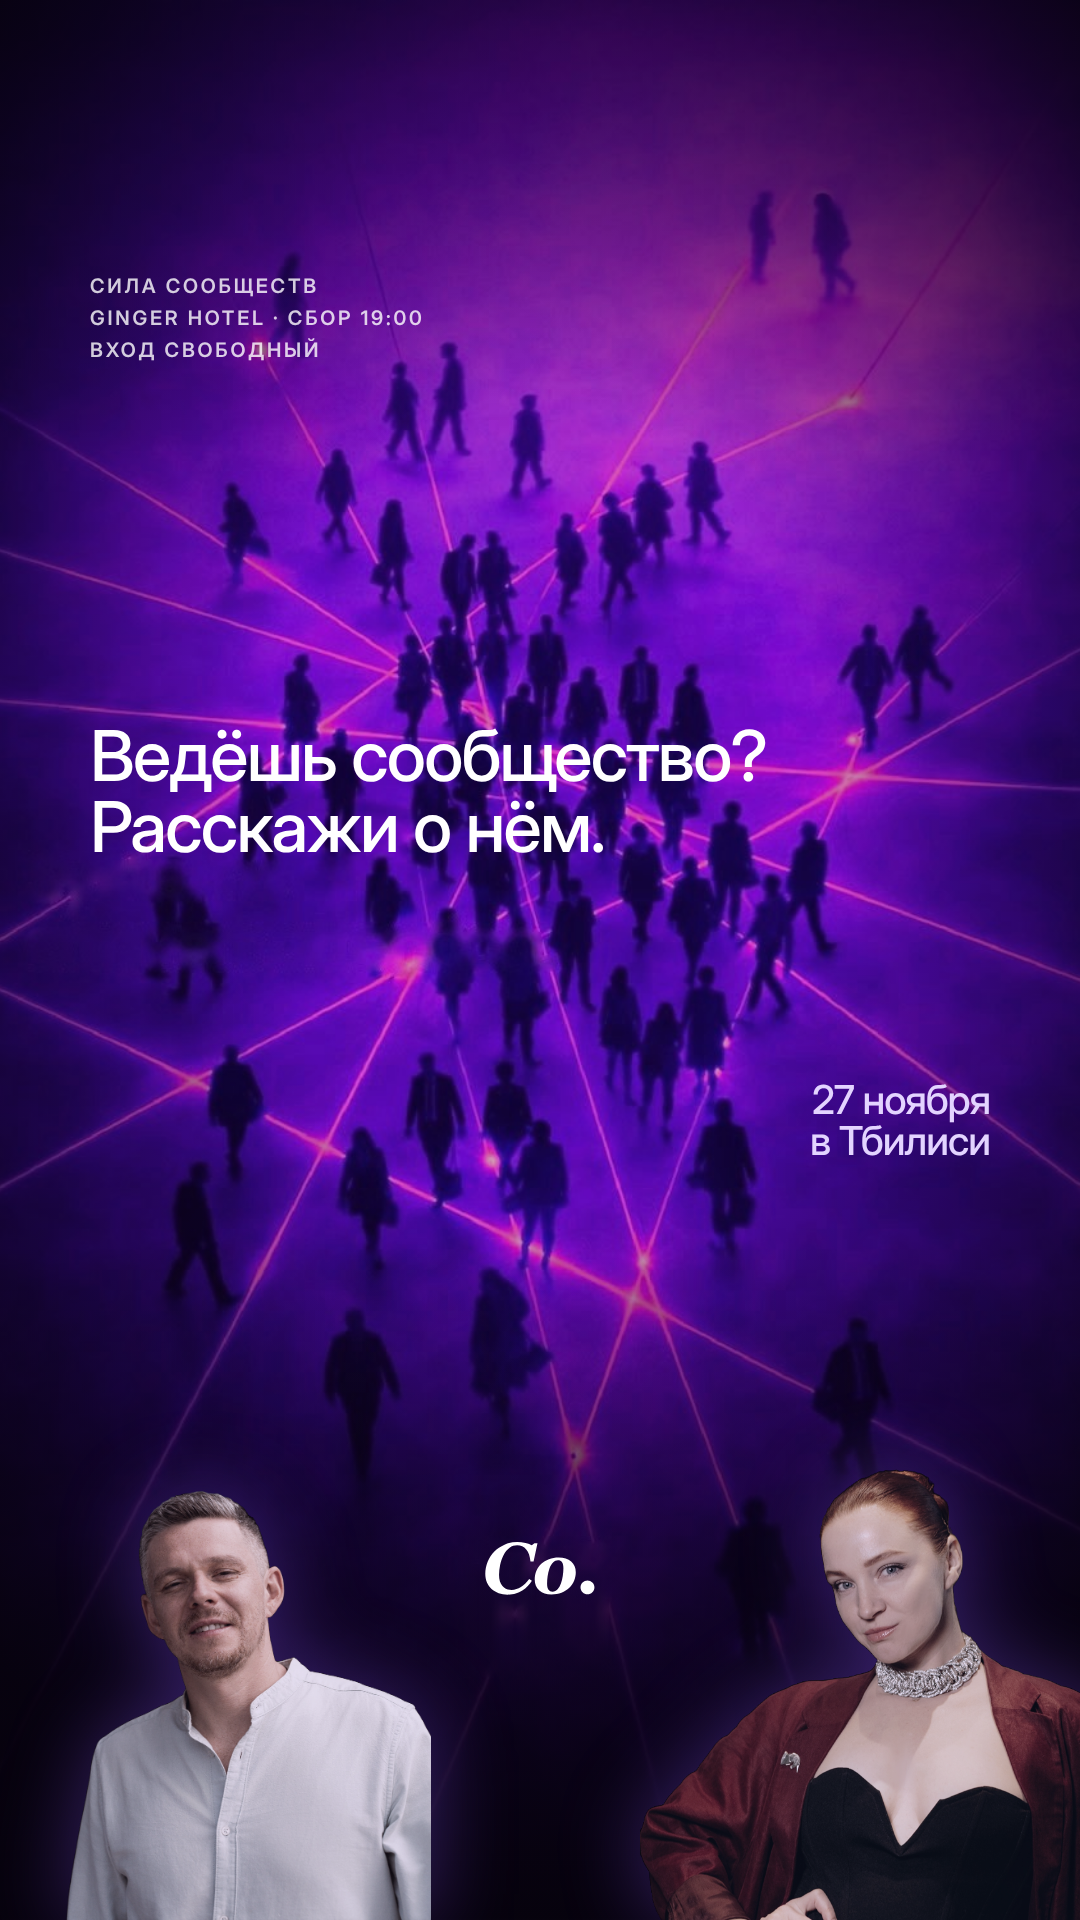
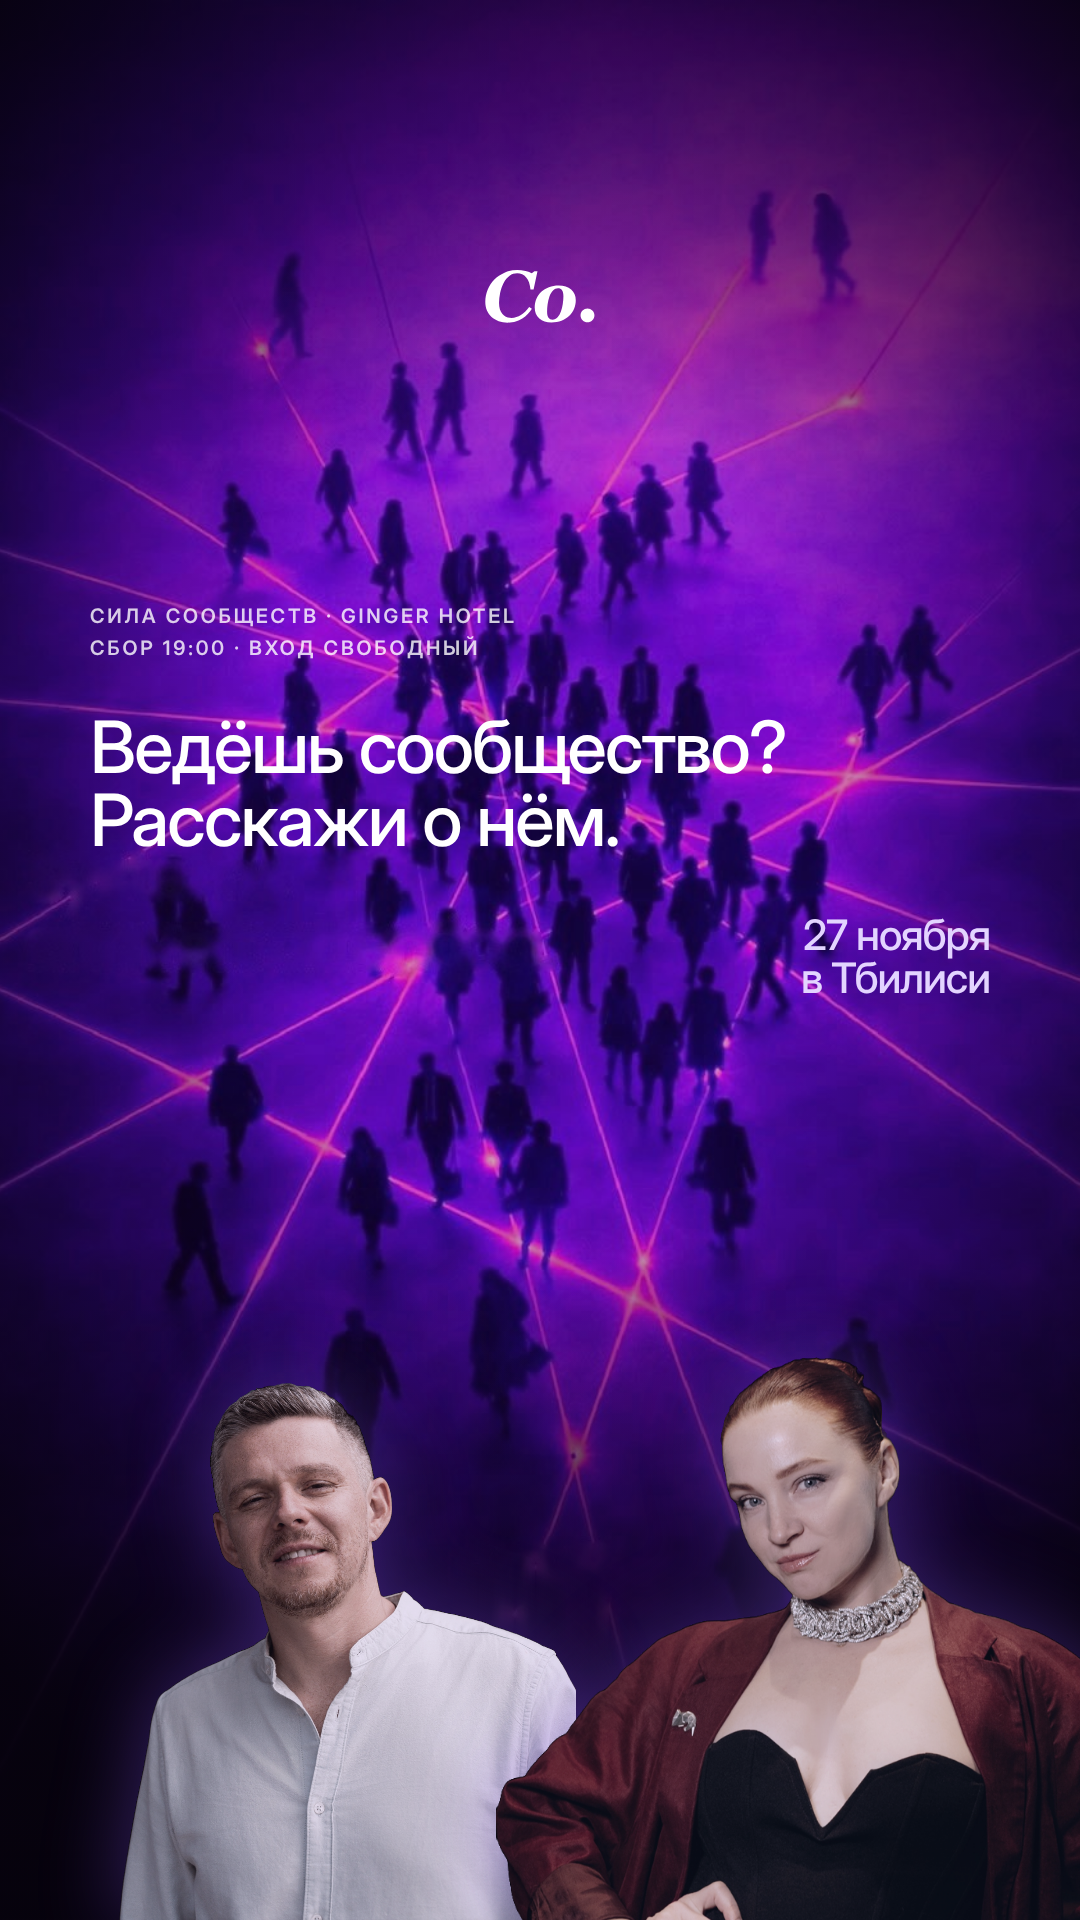
Фиолетовый вариант: логотип наверх, инфо у заголовка, Полина и Максим крупно вместе
Claude-Session: https://claude.ai/code/session_01EUhV7vaX3V2s8FuVCAhgM5

diff --git a/creatives/src/poster/purple-9x16.html b/creatives/src/poster/purple-9x16.html
@@ -10,13 +10,13 @@ body{font-family:'Inter Display','Inter',sans-serif;position:relative;background
 .main{font-weight:500;letter-spacing:-.025em;line-height:1.02}
 .small{font-weight:600;letter-spacing:.14em;text-transform:uppercase;color:rgba(255,255,255,.8);line-height:1.6}
 </style></head><body><img class="bg" src="crowd_purple.jpg"><div class="vig"></div>
-<div class="person" style="left:66px;top:1491px;width:366px;height:429px"><img src="max_purple.png" style="height:429px"></div><div class="person" style="left:640px;top:1467px;width:583px;height:453px"><img src="polina_purple.png" style="height:716px"></div>
-<div class="abs small" style="left:90px;top:270px;font-size:20px">Сила сообществ<br>Ginger Hotel · сбор 19:00<br>вход свободный</div>
-<div class="abs main" style="left:90px;top:720px;font-size:70px">Ведёшь сообщество?<br>Расскажи о нём.</div>
-<div class="abs main" style="right:90px;top:1080px;font-size:40px;text-align:right;color:#E3D4FF">27 ноября<br>в Тбилиси</div>
-<div class="abs" style="left:50%;transform:translateX(-50%);bottom:320px"><svg width="110" height="54" viewBox="0 0 77 38" fill="none" xmlns="http://www.w3.org/2000/svg">
+<div class="person" style="left:119px;top:1383px;width:457px;height:537px"><img src="max_purple.png" style="height:537px"></div><div class="person" style="left:496px;top:1354px;width:729px;height:566px"><img src="polina_purple.png" style="height:895px"></div>
+<div class="abs" style="left:50%;transform:translateX(-50%);top:270px"><svg width="110" height="54" viewBox="0 0 77 38" fill="none" xmlns="http://www.w3.org/2000/svg">
 <path d="M15.6912 37.0447C13.4308 37.0447 11.3353 36.7143 9.40484 36.0537C7.47438 35.3761 5.80789 34.4098 4.40543 33.1545C3.01945 31.8988 1.93872 30.371 1.16323 28.5701C0.387743 26.7532 0 24.7047 0 22.425C0 19.402 0.552742 16.5524 1.65822 13.8763C2.78021 11.2001 4.35593 8.81309 6.38539 6.71513C8.33235 4.69976 10.7083 3.08086 13.5133 1.85843C16.3347 0.619476 19.3294 0 22.4974 0C24.4114 0 26.35 0.231271 28.3134 0.693814C30.2771 1.15636 31.7455 1.69323 32.7189 2.30445L34.5753 0.941605H36.7283L33.9811 13.7772H31.8034C31.4733 10.0273 30.4751 7.17767 28.8084 5.22837C27.1585 3.26258 25.0301 2.27967 22.4231 2.27967C20.5092 2.27967 18.7437 2.8496 17.1267 3.98942C15.5098 5.12927 14.0743 6.88031 12.8203 9.24259C11.7973 11.1919 11.0136 13.455 10.4691 16.0321C9.9411 18.5925 9.67709 20.9961 9.67709 23.2428C9.67709 26.5468 10.4773 29.1154 12.0778 30.9491C13.6783 32.7828 15.8232 33.6994 18.5127 33.6994C20.8722 33.6994 23.0584 33.0387 25.0713 31.7171C27.0844 30.3957 29.023 28.4875 30.8875 25.9932L32.7933 27.2816C31.9848 28.5372 31.0196 29.776 29.8976 30.9985C28.7755 32.2044 27.4968 33.2536 26.0613 34.1455C24.5598 35.0871 23.0089 35.8056 21.4084 36.3014C19.8244 36.7969 17.9187 37.0447 15.6912 37.0447Z" fill="white"/>
 <path d="M63.6817 21.2605C63.6817 23.342 63.2858 25.3326 62.4936 27.2323C61.7017 29.132 60.5797 30.784 59.1278 32.188C57.5603 33.6914 55.7205 34.856 53.6085 35.6819C51.5131 36.4914 49.1536 36.8962 46.5303 36.8962C43.0159 36.8962 40.178 35.9628 38.0163 34.0962C35.8548 32.213 34.7741 29.6523 34.7741 26.4146C34.7741 24.2175 35.1783 22.1774 35.9869 20.2942C36.8119 18.411 37.9587 16.7673 39.4271 15.3631C40.8792 13.992 42.6611 12.91 44.7731 12.1171C46.8851 11.3076 49.1701 10.9029 51.6285 10.9029C55.3575 10.9029 58.2946 11.8197 60.4395 13.6534C62.6009 15.4705 63.6817 18.0062 63.6817 21.2605ZM54.9699 18.4605C54.9699 16.5277 54.6398 15.1071 53.9799 14.1985C53.3363 13.29 52.396 12.8357 51.1585 12.8357C49.8879 12.8357 48.7246 13.3478 47.6686 14.372C46.6129 15.3797 45.7547 16.8664 45.0947 18.8322C44.5172 20.4676 44.1048 22.2434 43.8573 24.1597C43.6098 26.0594 43.4862 27.7609 43.4862 29.2641C43.4862 31.263 43.816 32.7167 44.4761 33.6254C45.136 34.5172 46.0929 34.9633 47.3469 34.9633C48.6999 34.9633 49.8713 34.4099 50.8613 33.3032C51.8513 32.1964 52.6351 30.8335 53.2127 29.2146C53.7902 27.6287 54.2274 25.8777 54.5243 23.9615C54.8213 22.0287 54.9699 20.195 54.9699 18.4605Z" fill="white"/>
 <path d="M76.8 31.9899C76.8 33.295 76.3132 34.4265 75.3397 35.3847C74.3829 36.3428 73.2443 36.8218 71.9243 36.8218C70.5879 36.8218 69.433 36.351 68.4593 35.4094C67.5025 34.4512 67.0238 33.3113 67.0238 31.9899C67.0238 30.6683 67.5025 29.5284 68.4593 28.5702C69.433 27.5958 70.5879 27.1084 71.9243 27.1084C73.2443 27.1084 74.3829 27.5958 75.3397 28.5702C76.3132 29.545 76.8 30.6849 76.8 31.9899Z" fill="white"/>
 </svg>
-</div></body></html>
+</div>
+<div class="abs small" style="left:90px;top:600px;font-size:20px">Сила сообществ · Ginger Hotel<br>сбор 19:00 · вход свободный</div>
+<div class="abs main" style="left:90px;top:710px;font-size:72px">Ведёшь сообщество?<br>Расскажи о нём.</div>
+<div class="abs main" style="right:90px;top:914px;font-size:42px;text-align:right;color:#E3D4FF">27 ноября<br>в Тбилиси</div></body></html>

diff --git a/creatives/src/poster/purple-4x5.html b/creatives/src/poster/purple-4x5.html
@@ -10,13 +10,13 @@ body{font-family:'Inter Display','Inter',sans-serif;position:relative;background
 .main{font-weight:500;letter-spacing:-.025em;line-height:1.02}
 .small{font-weight:600;letter-spacing:.14em;text-transform:uppercase;color:rgba(255,255,255,.8);line-height:1.6}
 </style></head><body><img class="bg" src="crowd_purple.jpg"><div class="vig"></div>
-<div class="person" style="left:86px;top:982px;width:314px;height:368px"><img src="max_purple.png" style="height:368px"></div><div class="person" style="left:674px;top:962px;width:500px;height:388px"><img src="polina_purple.png" style="height:614px"></div>
-<div class="abs small" style="left:90px;top:70px;font-size:20px">Сила сообществ<br>Ginger Hotel · сбор 19:00<br>вход свободный</div>
-<div class="abs main" style="left:90px;top:520px;font-size:60px">Ведёшь сообщество?<br>Расскажи о нём.</div>
-<div class="abs main" style="right:90px;top:800px;font-size:36px;text-align:right;color:#E3D4FF">27 ноября<br>в Тбилиси</div>
-<div class="abs" style="left:50%;transform:translateX(-50%);bottom:70px"><svg width="110" height="54" viewBox="0 0 77 38" fill="none" xmlns="http://www.w3.org/2000/svg">
+<div class="person" style="left:165px;top:890px;width:392px;height:460px"><img src="max_purple.png" style="height:460px"></div><div class="person" style="left:518px;top:865px;width:625px;height:485px"><img src="polina_purple.png" style="height:767px"></div>
+<div class="abs" style="left:50%;transform:translateX(-50%);top:60px"><svg width="110" height="54" viewBox="0 0 77 38" fill="none" xmlns="http://www.w3.org/2000/svg">
 <path d="M15.6912 37.0447C13.4308 37.0447 11.3353 36.7143 9.40484 36.0537C7.47438 35.3761 5.80789 34.4098 4.40543 33.1545C3.01945 31.8988 1.93872 30.371 1.16323 28.5701C0.387743 26.7532 0 24.7047 0 22.425C0 19.402 0.552742 16.5524 1.65822 13.8763C2.78021 11.2001 4.35593 8.81309 6.38539 6.71513C8.33235 4.69976 10.7083 3.08086 13.5133 1.85843C16.3347 0.619476 19.3294 0 22.4974 0C24.4114 0 26.35 0.231271 28.3134 0.693814C30.2771 1.15636 31.7455 1.69323 32.7189 2.30445L34.5753 0.941605H36.7283L33.9811 13.7772H31.8034C31.4733 10.0273 30.4751 7.17767 28.8084 5.22837C27.1585 3.26258 25.0301 2.27967 22.4231 2.27967C20.5092 2.27967 18.7437 2.8496 17.1267 3.98942C15.5098 5.12927 14.0743 6.88031 12.8203 9.24259C11.7973 11.1919 11.0136 13.455 10.4691 16.0321C9.9411 18.5925 9.67709 20.9961 9.67709 23.2428C9.67709 26.5468 10.4773 29.1154 12.0778 30.9491C13.6783 32.7828 15.8232 33.6994 18.5127 33.6994C20.8722 33.6994 23.0584 33.0387 25.0713 31.7171C27.0844 30.3957 29.023 28.4875 30.8875 25.9932L32.7933 27.2816C31.9848 28.5372 31.0196 29.776 29.8976 30.9985C28.7755 32.2044 27.4968 33.2536 26.0613 34.1455C24.5598 35.0871 23.0089 35.8056 21.4084 36.3014C19.8244 36.7969 17.9187 37.0447 15.6912 37.0447Z" fill="white"/>
 <path d="M63.6817 21.2605C63.6817 23.342 63.2858 25.3326 62.4936 27.2323C61.7017 29.132 60.5797 30.784 59.1278 32.188C57.5603 33.6914 55.7205 34.856 53.6085 35.6819C51.5131 36.4914 49.1536 36.8962 46.5303 36.8962C43.0159 36.8962 40.178 35.9628 38.0163 34.0962C35.8548 32.213 34.7741 29.6523 34.7741 26.4146C34.7741 24.2175 35.1783 22.1774 35.9869 20.2942C36.8119 18.411 37.9587 16.7673 39.4271 15.3631C40.8792 13.992 42.6611 12.91 44.7731 12.1171C46.8851 11.3076 49.1701 10.9029 51.6285 10.9029C55.3575 10.9029 58.2946 11.8197 60.4395 13.6534C62.6009 15.4705 63.6817 18.0062 63.6817 21.2605ZM54.9699 18.4605C54.9699 16.5277 54.6398 15.1071 53.9799 14.1985C53.3363 13.29 52.396 12.8357 51.1585 12.8357C49.8879 12.8357 48.7246 13.3478 47.6686 14.372C46.6129 15.3797 45.7547 16.8664 45.0947 18.8322C44.5172 20.4676 44.1048 22.2434 43.8573 24.1597C43.6098 26.0594 43.4862 27.7609 43.4862 29.2641C43.4862 31.263 43.816 32.7167 44.4761 33.6254C45.136 34.5172 46.0929 34.9633 47.3469 34.9633C48.6999 34.9633 49.8713 34.4099 50.8613 33.3032C51.8513 32.1964 52.6351 30.8335 53.2127 29.2146C53.7902 27.6287 54.2274 25.8777 54.5243 23.9615C54.8213 22.0287 54.9699 20.195 54.9699 18.4605Z" fill="white"/>
 <path d="M76.8 31.9899C76.8 33.295 76.3132 34.4265 75.3397 35.3847C74.3829 36.3428 73.2443 36.8218 71.9243 36.8218C70.5879 36.8218 69.433 36.351 68.4593 35.4094C67.5025 34.4512 67.0238 33.3113 67.0238 31.9899C67.0238 30.6683 67.5025 29.5284 68.4593 28.5702C69.433 27.5958 70.5879 27.1084 71.9243 27.1084C73.2443 27.1084 74.3829 27.5958 75.3397 28.5702C76.3132 29.545 76.8 30.6849 76.8 31.9899Z" fill="white"/>
 </svg>
-</div></body></html>
+</div>
+<div class="abs small" style="left:90px;top:400px;font-size:20px">Сила сообществ · Ginger Hotel<br>сбор 19:00 · вход свободный</div>
+<div class="abs main" style="left:90px;top:510px;font-size:62px">Ведёшь сообщество?<br>Расскажи о нём.</div>
+<div class="abs main" style="right:90px;top:674px;font-size:38px;text-align:right;color:#E3D4FF">27 ноября<br>в Тбилиси</div></body></html>

diff --git a/creatives/src/poster/build_purple.py b/creatives/src/poster/build_purple.py
@@ -30,17 +30,20 @@ def build(fmt):
     story = fmt == "9x16"
     H = 1920 if story else 1350
     bh = H; bw = 1200 * H / 1500; bx = -(bw - 1080) / 2
-    F = 140 if story else 120
-    top = 270 if story else 70
-    mainy = 720 if story else 520
-    ms = 70 if story else 60
-    datey = 1080 if story else 800
+    F = 175 if story else 150
+    mfx, pfx = (300, 790) if story else (320, 770)
+    top = 270 if story else 60
+    infoy = 600 if story else 400
+    mainy = infoy + 110
+    ms = 72 if story else 62
+    datey = mainy + ms * 2 + (60 if story else 40)
+    logo = LOGO.replace('width="77"', 'width="110"').replace('height="38"', 'height="54"')
     body = f"""<img class="bg" src="crowd_purple.jpg"><div class="vig"></div>
-{person_bottom(MCUT, F, 210, H, 'max_purple.png')}{person_bottom(PCUT, F, 875, H, 'polina_purple.png')}
-<div class="abs small" style="left:90px;top:{top}px;font-size:20px">Сила сообществ<br>Ginger Hotel · сбор 19:00<br>вход свободный</div>
+{person_bottom(MCUT, F, mfx, H, 'max_purple.png')}{person_bottom(PCUT, F, pfx, H, 'polina_purple.png')}
+<div class="abs" style="left:50%;transform:translateX(-50%);top:{top}px">{logo}</div>
+<div class="abs small" style="left:90px;top:{infoy}px;font-size:20px">Сила сообществ · Ginger Hotel<br>сбор 19:00 · вход свободный</div>
 <div class="abs main" style="left:90px;top:{mainy}px;font-size:{ms}px">Ведёшь сообщество?<br>Расскажи о нём.</div>
-<div class="abs main" style="right:90px;top:{datey}px;font-size:{40 if story else 36}px;text-align:right;color:#E3D4FF">27 ноября<br>в Тбилиси</div>
-<div class="abs" style="left:50%;transform:translateX(-50%);bottom:{(320 if story else 70)}px">{LOGO.replace('width="77"','width="110"').replace('height="38"','height="54"')}</div>"""
+<div class="abs main" style="right:90px;top:{datey}px;font-size:{42 if story else 38}px;text-align:right;color:#E3D4FF">27 ноября<br>в Тбилиси</div>"""
     css = CSS % dict(H=H, bx=bx)
     return f'<!doctype html><html><head><meta charset="utf-8"><style>{css}</style></head><body>{body}</body></html>'
 
